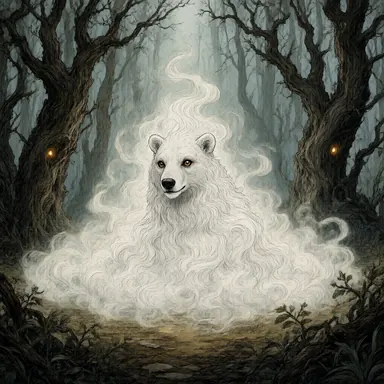
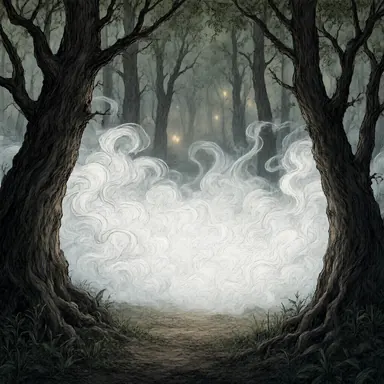
feat(pictures): pick the re-rolls, log the second round in PICTURES.md
Claude-Session: https://claude.ai/code/session_01DhtMukDYrJmnBUMGmj9v5c

diff --git a/docs/PICTURES.md b/docs/PICTURES.md
@@ -35,6 +35,28 @@ Every illustrated picture file shipped with SogoTable. Source spec: `docs/pictur
   dwarf trope, left as is.
 - **Portraits use qwen-image21,** not wai-illustrious, to keep one look across the whole game.
 
+## Second round (2026-11-12): Mystic Wood, Potion Lab, Bloomwork, Reefkeepers
+
+MojoSOGO asked which other games would gain most from drawn art. Ranked audit: Mystic Wood (every encounter was an
+emoji), Potion Lab (emoji cards), then Bloomwork and Reefkeepers (slots already waiting), Hidden Isles, Hearts / No
+Thanks backs. Dice, word and abstract games, Tracklayers and Tradewind maps stay procedural.
+
+- **New slots** (placement-advisor, full path): `mystic-wood/assets.js` + `art.js` (denizens, things, knights) and
+  `potion-lab/assets.js` + `art.js` (cards). The emoji / initial crest stays the fallback. No card backs: neither
+  game draws a face-down card. `mystic-wood/render.js` stayed at 689 lines.
+- **Where they show:** Mystic Wood: the encounter popup (220 px), the card / thing / companion peeks (120 px) and the
+  knight crests (Knights panel, quest intro). The small map badges and pick faces keep their emoji. Potion Lab: the
+  in-hand card face (56 px); potion value and moon count sit on top as a badge.
+- **Tiles: 256x256.** Bloomwork and Reefkeepers tiles never show above ~80 px. Three seeds each, best kept.
+- **Post-processing:** Reefkeepers kelp and trench came out near-black and were brightened (Pillow
+  `ImageEnhance.Brightness` x2.4 and x2.0) so they read against the palette. Bloomwork's table picture was skipped
+  (every seed drew a planter box, not a backdrop); its CSS table stays.
+- **Re-rolls:** the first nymph came out nude and was removed at once; it, fog and wind (drew animals), the witch
+  (drew a man) and Potion Lab's moon dust (drew a person) were re-rolled with three seeds and a `negative` prompt
+  (the manager passes it through). New prompts with people in them should carry the same negative.
+- **Pipeline is in the repo:** `scripts/pictures/run.mjs <jobs file> <out dir>` on SogoAI, then
+  `scripts/pictures/place.mjs <out dir>` copies the WebPs to their slot files. Job lists: `scripts/pictures/jobs-*.mjs`.
+
 Best practice: serve images at displayed size × device pixel ratio (web.dev, https://web.dev/learn/performance/image-performance).
 
 ## Style
@@ -294,3 +316,72 @@ SogoTable's own. All characters and card names are SogoTable's own invention (`c
 | `games/last-orders/img/drink-back.webp` | `drinkBack` | 1024x1424 -> 512x716, 51 KB | qwen-image21 | 303 | ornate playing card back design, deep bottle green with gold filigree border, symmetrical, central medallion of a wine bottle and a small glass, fantasy tavern theme, flat front view filling the whole frame, no text, no letters + STYLE |
 | `games/last-orders/img/table.webp` | `tableBg` | 1024x1024 -> 1024x1024, 169 KB | qwen-image21 | 101 | top-down view of an old worn wooden tavern table surface, warm honey-brown oak planks with grain, knots, faint mug rings and scratches, even soft lighting, seamless texture, no objects, no text + STYLE |
 | `games/chinese-checkers/img/board.webp` | `board` | 1024x1024 -> 1024x1024, 191 KB | qwen-image21 | 303 | top-down view of a polished wooden game board surface, radial sunburst marquetry inlay of light maple and dark walnut centred in the frame, symmetrical, fine wood grain, even soft lighting, no holes, no pieces, no text + STYLE |
+| `games/mystic-wood/img/knight-george.webp` | `knights:george` | 1024x1024 -> 384x384, 22 KB | qwen-image21 | 303 | close-up portrait of Sir George, a bold broad-shouldered knight with a short dark beard, red surcoat with a white cross over chainmail, helm under his arm, face and shoulders filling the frame, expressive face, soft green forest light, softly blurred misty forest background, centred face, square framing + STYLE |
+| `games/mystic-wood/img/knight-perceval.webp` | `knights:perceval` | 1024x1024 -> 384x384, 20 KB | qwen-image21 | 202 | close-up portrait of Sir Perceval, a gentle young knight with fair shoulder-length hair and a hopeful gaze, pale blue surcoat over chainmail, face and shoulders filling the frame, expressive face, soft green forest light, softly blurred misty forest background, centred face, square framing + STYLE |
+| `games/mystic-wood/img/knight-roland.webp` | `knights:roland` | 1024x1024 -> 384x384, 19 KB | qwen-image21 | 202 | close-up portrait of Sir Roland, a weathered loyal knight with brown hair and a scar on his cheek, green surcoat over chainmail, an ivory horn at his belt, face and shoulders filling the frame, expressive face, soft green forest light, softly blurred misty forest background, centred face, square framing + STYLE |
+| `games/mystic-wood/img/knight-guyon.webp` | `knights:guyon` | 1024x1024 -> 384x384, 19 KB | qwen-image21 | 303 | close-up portrait of Sir Guyon, a stern disciplined knight with close-cropped grey hair and a solemn expression, gold and black surcoat over plate armour, face and shoulders filling the frame, expressive face, soft green forest light, softly blurred misty forest background, centred face, square framing + STYLE |
+| `games/mystic-wood/img/knight-britomart.webp` | `knights:britomart` | 1024x1024 -> 384x384, 21 KB | qwen-image21 | 101 | close-up portrait of Britomart, a fierce woman knight with a long auburn braid, violet surcoat over silver plate armour, holding a spear, face and shoulders filling the frame, expressive face, soft green forest light, softly blurred misty forest background, centred face, square framing + STYLE |
+| `games/mystic-wood/img/den-dragon.webp` | `denizens:dragon` | 1024x1024 -> 384x384, 33 KB | qwen-image21 | 101 | a huge green dragon coiled among ancient trees, wings half spread, smoke curling from its jaws, in a misty enchanted medieval forest glade, single clear subject, centred, no text, no letters, no border + STYLE |
+| `games/mystic-wood/img/den-ox.webp` | `denizens:ox` | 1024x1024 -> 384x384, 34 KB | qwen-image21 | 101 | a wild shaggy ox with great curved horns lowering its head to charge, in a misty enchanted medieval forest glade, single clear subject, centred, no text, no letters, no border + STYLE |
+| `games/mystic-wood/img/den-boar.webp` | `denizens:boar` | 1024x1024 -> 384x384, 27 KB | qwen-image21 | 101 | a fierce wild boar with long tusks and bristling back, snorting, in a misty enchanted medieval forest glade, single clear subject, centred, no text, no letters, no border + STYLE |
+| `games/mystic-wood/img/den-troll.webp` | `denizens:troll` | 1024x1024 -> 384x384, 35 KB | qwen-image21 | 101 | a hulking warty forest troll with a club, mossy skin, scowling, in a misty enchanted medieval forest glade, single clear subject, centred, no text, no letters, no border + STYLE |
+| `games/mystic-wood/img/den-giant.webp` | `denizens:giant` | 1024x1024 -> 384x384, 37 KB | qwen-image21 | 101 | a towering bearded giant in rough hides holding an uprooted tree as a club, in a misty enchanted medieval forest glade, single clear subject, centred, no text, no letters, no border + STYLE |
+| `games/mystic-wood/img/den-orc.webp` | `denizens:orc` | 1024x1024 -> 384x384, 33 KB | qwen-image21 | 101 | a snarling armoured orc warrior with a jagged axe, in a misty enchanted medieval forest glade, single clear subject, centred, no text, no letters, no border + STYLE |
+| `games/mystic-wood/img/den-saracen.webp` | `denizens:saracen` | 1024x1024 -> 384x384, 30 KB | qwen-image21 | 101 | a proud armed Saracen knight in a turban helm and curved scimitar on a fine horse, in a misty enchanted medieval forest glade, single clear subject, centred, no text, no letters, no border + STYLE |
+| `games/mystic-wood/img/den-king.webp` | `denizens:king` | 1024x1024 -> 384x384, 32 KB | qwen-image21 | 101 | a stern crowned king in ermine robes and armour, gripping a great sword, in a misty enchanted medieval forest glade, single clear subject, centred, no text, no letters, no border + STYLE |
+| `games/mystic-wood/img/den-wizard.webp` | `denizens:wizard` | 1024x1024 -> 384x384, 30 KB | qwen-image21 | 101 | a wise old wizard in a deep blue robe with a long white beard, holding out a knight's lance, in a misty enchanted medieval forest glade, single clear subject, centred, no text, no letters, no border + STYLE |
+| `games/mystic-wood/img/den-illusion.webp` | `denizens:illusion` | 1024x1024 -> 384x384, 23 KB | qwen-image21 | 101 | a shimmering ghostly illusion, a half-transparent knight dissolving into swirling mist and sparkles, in a misty enchanted medieval forest glade, single clear subject, centred, no text, no letters, no border + STYLE |
+| `games/mystic-wood/img/den-enchantress.webp` | `denizens:enchantress` | 1024x1024 -> 384x384, 26 KB | qwen-image21 | 101 | a beautiful dangerous enchantress in dark green robes weaving a glowing web of magic between her hands, in a misty enchanted medieval forest glade, single clear subject, centred, no text, no letters, no border + STYLE |
+| `games/mystic-wood/img/den-horse.webp` | `denizens:horse` | 1024x1024 -> 384x384, 29 KB | qwen-image21 | 101 | a magnificent white horse rearing among the trees, mane flying, in a misty enchanted medieval forest glade, single clear subject, centred, no text, no letters, no border + STYLE |
+| `games/mystic-wood/img/den-rogue.webp` | `denizens:rogue` | 1024x1024 -> 384x384, 25 KB | qwen-image21 | 101 | a sly hooded rogue leaning on a tree, twirling an iron key on a ring, in a misty enchanted medieval forest glade, single clear subject, centred, no text, no letters, no border + STYLE |
+| `games/mystic-wood/img/den-druid.webp` | `denizens:druid` | 1024x1024 -> 384x384, 31 KB | qwen-image21 | 101 | a robed druid with an oak-leaf crown holding a glowing golden bough, in a misty enchanted medieval forest glade, single clear subject, centred, no text, no letters, no border + STYLE |
+| `games/mystic-wood/img/den-elf.webp` | `denizens:elf` | 1024x1024 -> 384x384, 30 KB | qwen-image21 | 101 | a slender wood elf with pointed ears and a longbow, offering a slender carved wand, in a misty enchanted medieval forest glade, single clear subject, centred, no text, no letters, no border + STYLE |
+| `games/mystic-wood/img/den-merlin.webp` | `denizens:merlin` | 1024x1024 -> 384x384, 32 KB | qwen-image21 | 101 | Merlin the great enchanter, ancient and hooded, holding a crystal-topped staff and a round shield, in a misty enchanted medieval forest glade, single clear subject, centred, no text, no letters, no border + STYLE |
+| `games/mystic-wood/img/den-hermit.webp` | `denizens:hermit` | 1024x1024 -> 384x384, 29 KB | qwen-image21 | 101 | a kindly old hermit in a patched grey robe outside a tiny moss-covered hut, hand raised in blessing, in a misty enchanted medieval forest glade, single clear subject, centred, no text, no letters, no border + STYLE |
+| `games/mystic-wood/img/den-bishop.webp` | `denizens:bishop` | 1024x1024 -> 384x384, 34 KB | qwen-image21 | 101 | a solemn bishop in white and gold vestments with a mitre and crozier, holding out a golden ring, in a misty enchanted medieval forest glade, single clear subject, centred, no text, no letters, no border + STYLE |
+| `games/mystic-wood/img/den-archmage.webp` | `denizens:archmage` | 1024x1024 -> 384x384, 29 KB | qwen-image21 | 101 | a mighty arch-mage in star-embroidered robes, floating, arcane circles of light around him, in a misty enchanted medieval forest glade, single clear subject, centred, no text, no letters, no border + STYLE |
+| `games/mystic-wood/img/den-magician.webp` | `denizens:magician` | 1024x1024 -> 384x384, 30 KB | qwen-image21 | 101 | a showy travelling magician in a tall hat and bright cloak conjuring sparks from his fingers, in a misty enchanted medieval forest glade, single clear subject, centred, no text, no letters, no border + STYLE |
+| `games/mystic-wood/img/den-sage.webp` | `denizens:sage` | 1024x1024 -> 384x384, 27 KB | qwen-image21 | 101 | an old sage with spectacles reading an unrolled scroll by lantern light, in a misty enchanted medieval forest glade, single clear subject, centred, no text, no letters, no border + STYLE |
+| `games/mystic-wood/img/den-princess.webp` | `denizens:princess` | 1024x1024 -> 384x384, 32 KB | qwen-image21 | 101 | a young princess in a flowing rose-coloured gown and small tiara, looking back over her shoulder as if about to flee, in a misty enchanted medieval forest glade, single clear subject, centred, no text, no letters, no border + STYLE |
+| `games/mystic-wood/img/den-prince.webp` | `denizens:prince` | 1024x1024 -> 384x384, 32 KB | qwen-image21 | 101 | a gallant young prince in a fine blue doublet and light armour with a sword at his side, in a misty enchanted medieval forest glade, single clear subject, centred, no text, no letters, no border + STYLE |
+| `games/mystic-wood/img/den-grail.webp` | `denizens:grail` | 1024x1024 -> 384x384, 24 KB | qwen-image21 | 101 | the Holy Grail, a radiant golden chalice glowing with holy light on a mossy stone altar, still life, no people, in a misty enchanted medieval forest glade, single clear subject, centred, no text, no letters, no border + STYLE |
+| `games/mystic-wood/img/den-dwarf.webp` | `denizens:dwarf` | 1024x1024 -> 384x384, 35 KB | qwen-image21 | 101 | a stout bearded dwarf miner with a pickaxe, presenting a gleaming suit of armour, in a misty enchanted medieval forest glade, single clear subject, centred, no text, no letters, no border + STYLE |
+| `games/mystic-wood/img/den-queen.webp` | `denizens:queen` | 1024x1024 -> 384x384, 31 KB | qwen-image21 | 101 | a regal queen of the fairies in a silver gown and crown of white flowers, serene and mysterious, in a misty enchanted medieval forest glade, single clear subject, centred, no text, no letters, no border + STYLE |
+| `games/mystic-wood/img/den-boy.webp` | `denizens:boy` | 1024x1024 -> 384x384, 33 KB | qwen-image21 | 101 | a cheerful young squire lad in a simple tunic carrying a knight's helmet, in a misty enchanted medieval forest glade, single clear subject, centred, no text, no letters, no border + STYLE |
+| `games/mystic-wood/img/den-damsel.webp` | `denizens:damsel` | 1024x1024 -> 384x384, 31 KB | qwen-image21 | 101 | a damsel in a long green medieval dress with a lantern, waving for help, in a misty enchanted medieval forest glade, single clear subject, centred, no text, no letters, no border + STYLE |
+| `games/mystic-wood/img/den-horn.webp` | `denizens:horn` | 1024x1024 -> 384x384, 10 KB | qwen-image21 | 101 | an ornate ivory hunting horn with silver bands glowing with magic, hanging from a branch, still life, no people, in a misty enchanted medieval forest glade, single clear subject, centred, no text, no letters, no border + STYLE |
+| `games/mystic-wood/img/thing-lance.webp` | `things:lance` | 1024x1024 -> 384x384, 10 KB | qwen-image21 | 101 | a knight's jousting lance with a pennant, still life, no people, resting on moss, in a misty enchanted medieval forest glade, single clear subject, centred, no text, no letters, no border + STYLE |
+| `games/mystic-wood/img/thing-shield.webp` | `things:shield` | 1024x1024 -> 384x384, 28 KB | qwen-image21 | 101 | a round knight's shield with a heraldic emblem, still life, no people, resting on moss, in a misty enchanted medieval forest glade, single clear subject, centred, no text, no letters, no border + STYLE |
+| `games/mystic-wood/img/thing-armour.webp` | `things:armour` | 1024x1024 -> 384x384, 12 KB | qwen-image21 | 101 | a gleaming suit of knight's plate armour on a stand, still life, no people, resting on moss, in a misty enchanted medieval forest glade, single clear subject, centred, no text, no letters, no border + STYLE |
+| `games/mystic-wood/img/thing-golden-bough.webp` | `things:golden_bough` | 1024x1024 -> 384x384, 11 KB | qwen-image21 | 101 | a glowing golden bough with gold leaves, still life, no people, resting on moss, in a misty enchanted medieval forest glade, single clear subject, centred, no text, no letters, no border + STYLE |
+| `games/mystic-wood/img/thing-key.webp` | `things:key` | 1024x1024 -> 384x384, 8 KB | qwen-image21 | 101 | an ornate old iron key, still life, no people, resting on moss, in a misty enchanted medieval forest glade, single clear subject, centred, no text, no letters, no border + STYLE |
+| `games/mystic-wood/img/thing-wand.webp` | `things:wand` | 1024x1024 -> 384x384, 7 KB | qwen-image21 | 101 | a slender carved magic wand with a faint glow, still life, no people, resting on moss, in a misty enchanted medieval forest glade, single clear subject, centred, no text, no letters, no border + STYLE |
+| `games/mystic-wood/img/thing-blessing.webp` | `things:blessing` | 1024x1024 -> 384x384, 17 KB | qwen-image21 | 101 | a soft beam of holy light with a white dove, still life, no people, resting on moss, in a misty enchanted medieval forest glade, single clear subject, centred, no text, no letters, no border + STYLE |
+| `games/mystic-wood/img/thing-ring.webp` | `things:ring` | 1024x1024 -> 384x384, 25 KB | qwen-image21 | 101 | a golden ring with a red jewel, still life, no people, resting on moss, in a misty enchanted medieval forest glade, single clear subject, centred, no text, no letters, no border + STYLE |
+| `games/mystic-wood/img/thing-potion.webp` | `things:potion` | 1024x1024 -> 384x384, 19 KB | qwen-image21 | 101 | a small corked glass potion bottle with glowing red liquid, still life, no people, resting on moss, in a misty enchanted medieval forest glade, single clear subject, centred, no text, no letters, no border + STYLE |
+| `games/mystic-wood/img/thing-crystal.webp` | `things:crystal` | 1024x1024 -> 384x384, 21 KB | qwen-image21 | 101 | a glowing scrying crystal ball on a small stand, still life, no people, resting on moss, in a misty enchanted medieval forest glade, single clear subject, centred, no text, no letters, no border + STYLE |
+| `games/potion-lab/img/potion.webp` | `cards:potion` | 1024x1024 -> 384x384, 17 KB | qwen-image21 | 101 | a bubbling round-bottomed potion flask with glowing pink liquid, on a dim candle-lit alchemist's workbench, single clear subject, centred, no text, no letters, no border + STYLE |
+| `games/potion-lab/img/fire.webp` | `cards:fire` | 1024x1024 -> 384x384, 16 KB | qwen-image21 | 101 | a small glass jar holding a living flame of fire essence, on a dim candle-lit alchemist's workbench, single clear subject, centred, no text, no letters, no border + STYLE |
+| `games/potion-lab/img/frog.webp` | `cards:frog` | 1024x1024 -> 384x384, 19 KB | qwen-image21 | 101 | a plump green frog sitting on a lily leaf, curious expression, on a dim candle-lit alchemist's workbench, single clear subject, centred, no text, no letters, no border + STYLE |
+| `games/potion-lab/img/mushroom.webp` | `cards:mushroom` | 1024x1024 -> 384x384, 18 KB | qwen-image21 | 101 | a cluster of red spotted toadstools and brown mushrooms, on a dim candle-lit alchemist's workbench, single clear subject, centred, no text, no letters, no border + STYLE |
+| `games/potion-lab/img/herb.webp` | `cards:herb` | 1024x1024 -> 384x384, 13 KB | qwen-image21 | 101 | a bundle of fresh green herbs tied with string, rosemary and sage, on a dim candle-lit alchemist's workbench, single clear subject, centred, no text, no letters, no border + STYLE |
+| `games/potion-lab/img/wizard.webp` | `cards:wizard` | 1024x1024 -> 384x384, 21 KB | qwen-image21 | 101 | a cheerful old wizard alchemist with a pointy hat holding up a test tube, on a dim candle-lit alchemist's workbench, single clear subject, centred, no text, no letters, no border + STYLE |
+| `games/potion-lab/img/ice.webp` | `cards:ice` | 1024x1024 -> 384x384, 18 KB | qwen-image21 | 101 | a jagged pale blue ice crystal glowing with frost, on a dim candle-lit alchemist's workbench, single clear subject, centred, no text, no letters, no border + STYLE |
+| `games/bloomwork/img/flower-rose.webp` | `flowerArt:rose` | 1024x1024 -> 256x256, 6 KB | qwen-image21 | 101 | a single lush red-pink rose bloom seen from above, on a soft pale pink background, centred, garden flower card art, square game tile, fills the whole frame edge to edge, no text, no letters, no border + STYLE |
+| `games/bloomwork/img/flower-iris.webp` | `flowerArt:iris` | 1024x1024 -> 256x256, 5 KB | qwen-image21 | 101 | a single blue-violet iris flower seen from the front, on a soft pale blue background, centred, garden flower card art, square game tile, fills the whole frame edge to edge, no text, no letters, no border + STYLE |
+| `games/bloomwork/img/flower-sun.webp` | `flowerArt:sun` | 1024x1024 -> 256x256, 9 KB | qwen-image21 | 101 | a single bright yellow sunflower head seen from the front, on a soft pale yellow background, centred, garden flower card art, square game tile, fills the whole frame edge to edge, no text, no letters, no border + STYLE |
+| `games/bloomwork/img/flower-lilac.webp` | `flowerArt:lilac` | 1024x1024 -> 256x256, 7 KB | qwen-image21 | 303 | a cluster of purple lilac blossoms, on a soft pale lavender background, centred, garden flower card art, square game tile, fills the whole frame edge to edge, no text, no letters, no border + STYLE |
+| `games/bloomwork/img/flower-fern.webp` | `flowerArt:fern` | 1024x1024 -> 256x256, 5 KB | qwen-image21 | 303 | a curling green fern frond with fresh leaves, on a soft pale green background, centred, garden flower card art, square game tile, fills the whole frame edge to edge, no text, no letters, no border + STYLE |
+| `games/bloomwork/img/bird.webp` | `birdArt` | 1024x1024 -> 256x256, 4 KB | qwen-image21 | 101 | a plump cheerful orange robin bird perched, facing left, on a soft cream background, centred, square game tile, fills the whole frame edge to edge, no text, no letters, no border + STYLE |
+| `games/reefkeepers/img/habitat-sand.webp` | `habitats:sand` | 1024x1024 -> 256x256, 5 KB | qwen-image21 | 202 | top-down view of a pale golden sandy sea floor with gentle ripples and a few tiny shells, underwater, seamless even texture, no horizon, square game tile, fills the whole frame edge to edge, no text, no letters, no border + STYLE |
+| `games/reefkeepers/img/habitat-kelp.webp` | `habitats:kelp` | 1024x1024 -> 256x256, 8 KB | qwen-image21 | 202 | top-down view of a dense dark green kelp forest underwater, long fronds, seamless even texture, no horizon, square game tile, fills the whole frame edge to edge, no text, no letters, no border + STYLE |
+| `games/reefkeepers/img/habitat-lagoon.webp` | `habitats:lagoon` | 1024x1024 -> 256x256, 10 KB | qwen-image21 | 202 | top-down view of clear bright turquoise shallow lagoon water with sunlight caustics, seamless even texture, no horizon, square game tile, fills the whole frame edge to edge, no text, no letters, no border + STYLE |
+| `games/reefkeepers/img/habitat-seagrass.webp` | `habitats:seagrass` | 1024x1024 -> 256x256, 19 KB | qwen-image21 | 202 | top-down view of a yellow-green seagrass meadow underwater, swaying blades, seamless even texture, no horizon, square game tile, fills the whole frame edge to edge, no text, no letters, no border + STYLE |
+| `games/reefkeepers/img/habitat-coral.webp` | `habitats:coral` | 1024x1024 -> 256x256, 22 KB | qwen-image21 | 303 | top-down view of a colourful pink and red coral reef with small fish, seamless even texture, no horizon, square game tile, fills the whole frame edge to edge, no text, no letters, no border + STYLE |
+| `games/reefkeepers/img/habitat-trench.webp` | `habitats:trench` | 1024x1024 -> 256x256, 1 KB | qwen-image21 | 202 | top-down view of a deep dark navy blue ocean trench, glowing cyan bioluminescent specks, seamless even texture, no horizon, square game tile, fills the whole frame edge to edge, no text, no letters, no border + STYLE |
+| `games/reefkeepers/img/grotto.webp` | `grotto` | 1024x1024 -> 256x256, 5 KB | qwen-image21 | 202 | top-down view of a cosy undersea grotto home made from a giant spiral seashell with a small round door, surrounded by turquoise water, centred, square game tile, fills the whole frame edge to edge, no text, no letters, no border + STYLE |
+| `games/mystic-wood/img/den-nymph.webp` | `denizens:nymph` | 1024x1024 -> 384x384, 27 KB | qwen-image21 | 101 | a modest water nymph spirit fully clothed in a long flowing high-necked blue-green gown with long sleeves, standing waist-deep in a forest pool, holding up a sparkling crystal, in a misty enchanted medieval forest glade, single clear subject, centred, no text, no letters, no border + STYLE (negative: nsfw, nude, naked, topless, cleavage, suggestive, text, letters, watermark) |
+| `games/mystic-wood/img/den-fog.webp` | `denizens:fog` | 1024x1024 -> 384x384, 23 KB | qwen-image21 | 202 | thick swirling magical white fog rolling between twisted dark trees, faint glowing lights inside the mist, empty forest, landscape only, no people, no animals, in a misty enchanted medieval forest glade, single clear subject, centred, no text, no letters, no border + STYLE (negative: nsfw, nude, naked, topless, cleavage, suggestive, text, letters, watermark, animal, bear, dog, wolf, person) |
+| `games/mystic-wood/img/den-wind.webp` | `denizens:wind` | 1024x1024 -> 384x384, 40 KB | qwen-image21 | 101 | a howling magical gust of wind visible as a swirling spiral of autumn leaves and streaks of air between bending trees, landscape only, no people, no animals, in a misty enchanted medieval forest glade, single clear subject, centred, no text, no letters, no border + STYLE (negative: nsfw, nude, naked, topless, cleavage, suggestive, text, letters, watermark, animal, wolf, dog, fox, person) |
+| `games/mystic-wood/img/den-witch.webp` | `denizens:witch` | 1024x1024 -> 384x384, 30 KB | qwen-image21 | 101 | an old woman forest witch with long grey hair, a crooked hat and a patched shawl, stirring a bubbling cauldron and holding up a small potion bottle, in a misty enchanted medieval forest glade, single clear subject, centred, no text, no letters, no border + STYLE (negative: nsfw, nude, naked, topless, cleavage, suggestive, text, letters, watermark, man, beard) |
+| `games/potion-lab/img/moondust.webp` | `cards:moondust` | 1024x1024 -> 384x384, 16 KB | qwen-image21 | 101 | a small open velvet pouch spilling glittering silver moon dust onto the table under a crescent moon in the window, still life, no people, on a dim candle-lit alchemist's workbench, single clear subject, centred, no text, no letters, no border + STYLE (negative: nsfw, nude, naked, topless, cleavage, suggestive, text, letters, watermark, person, man, woman, hands) |
